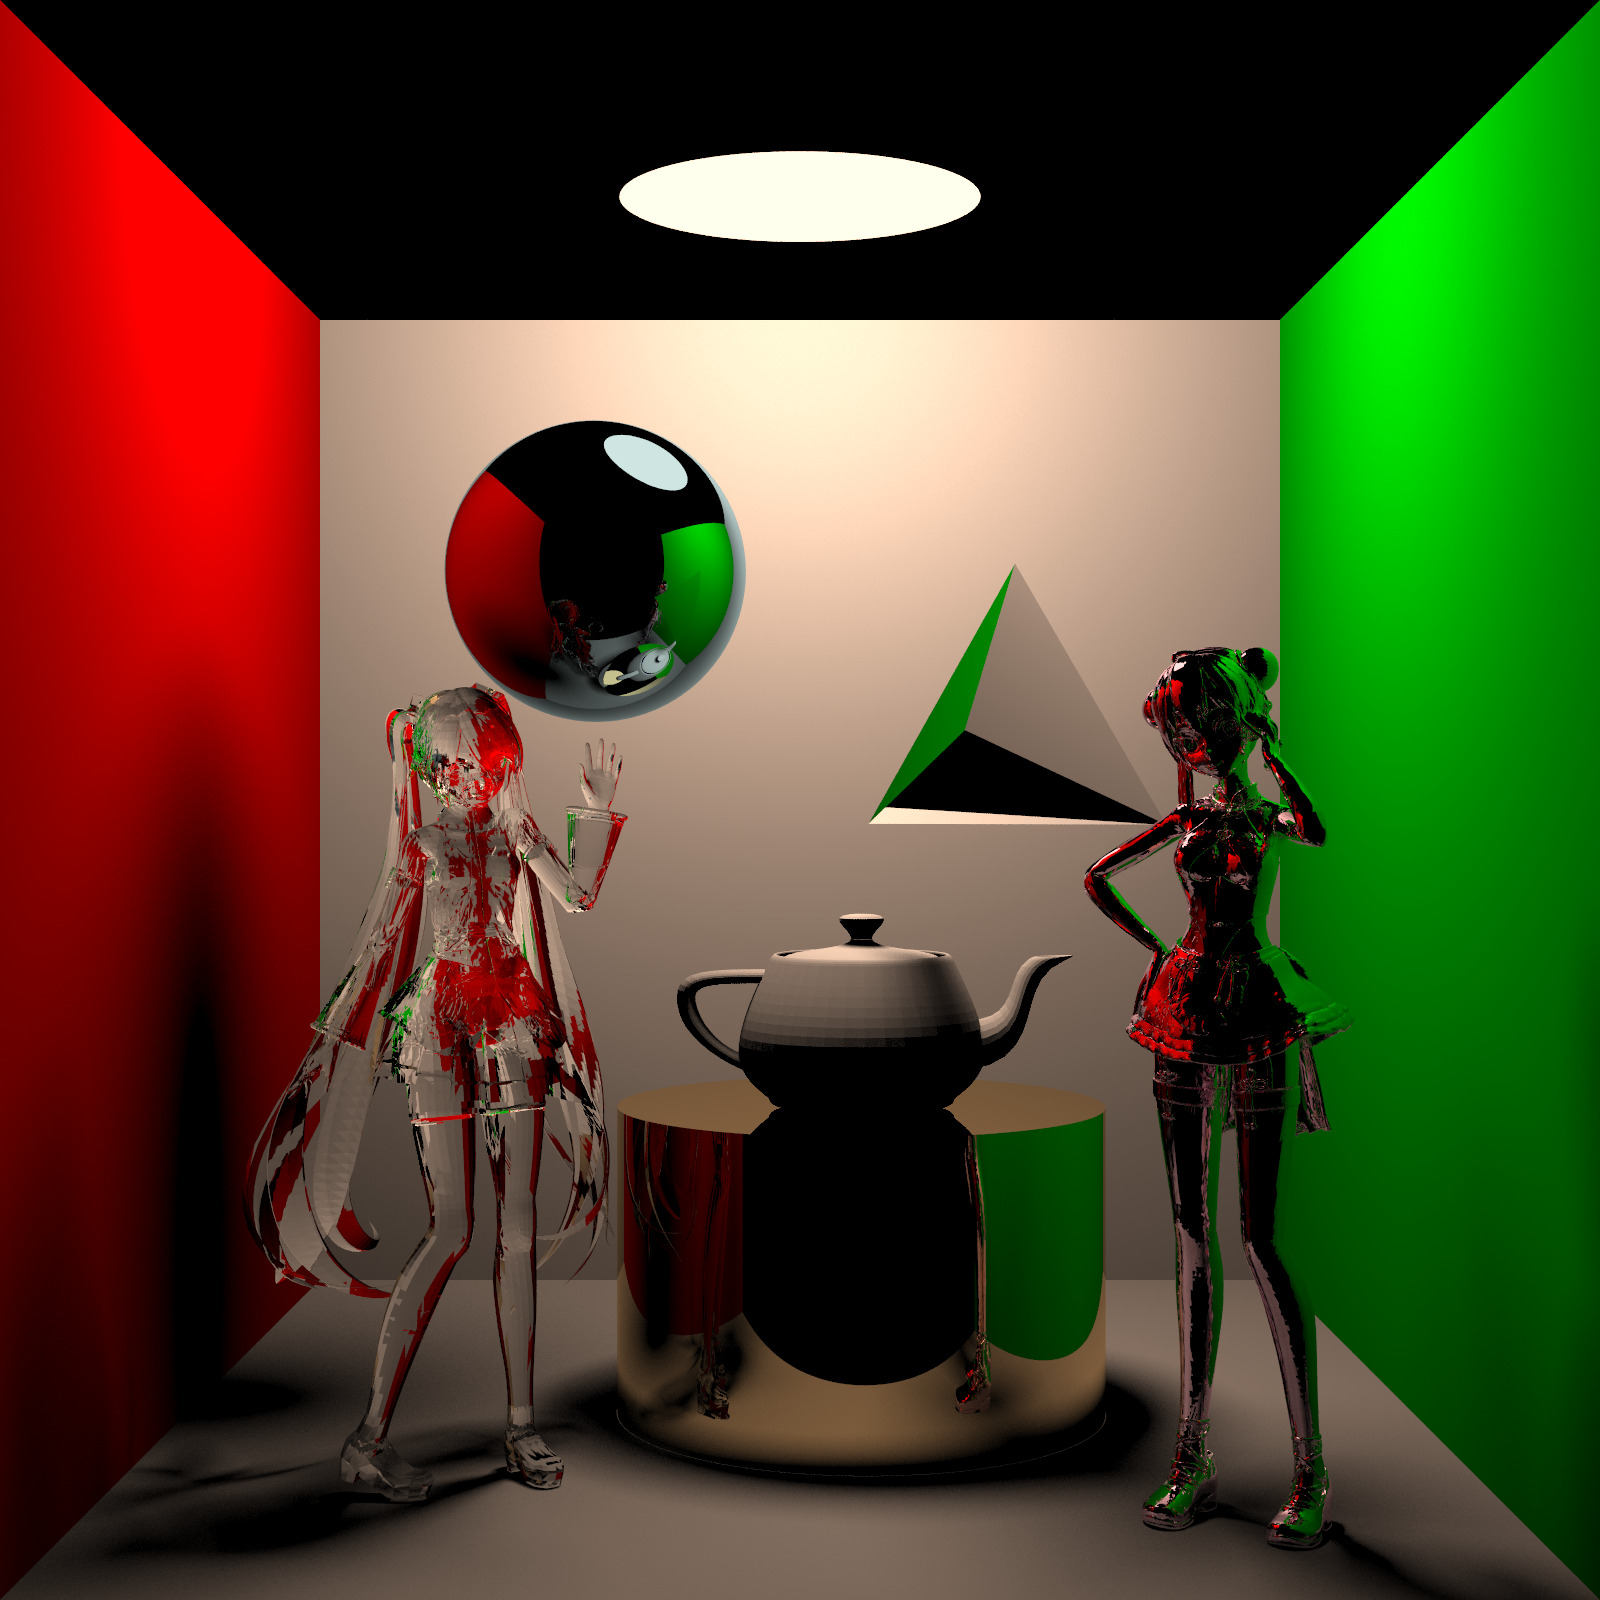
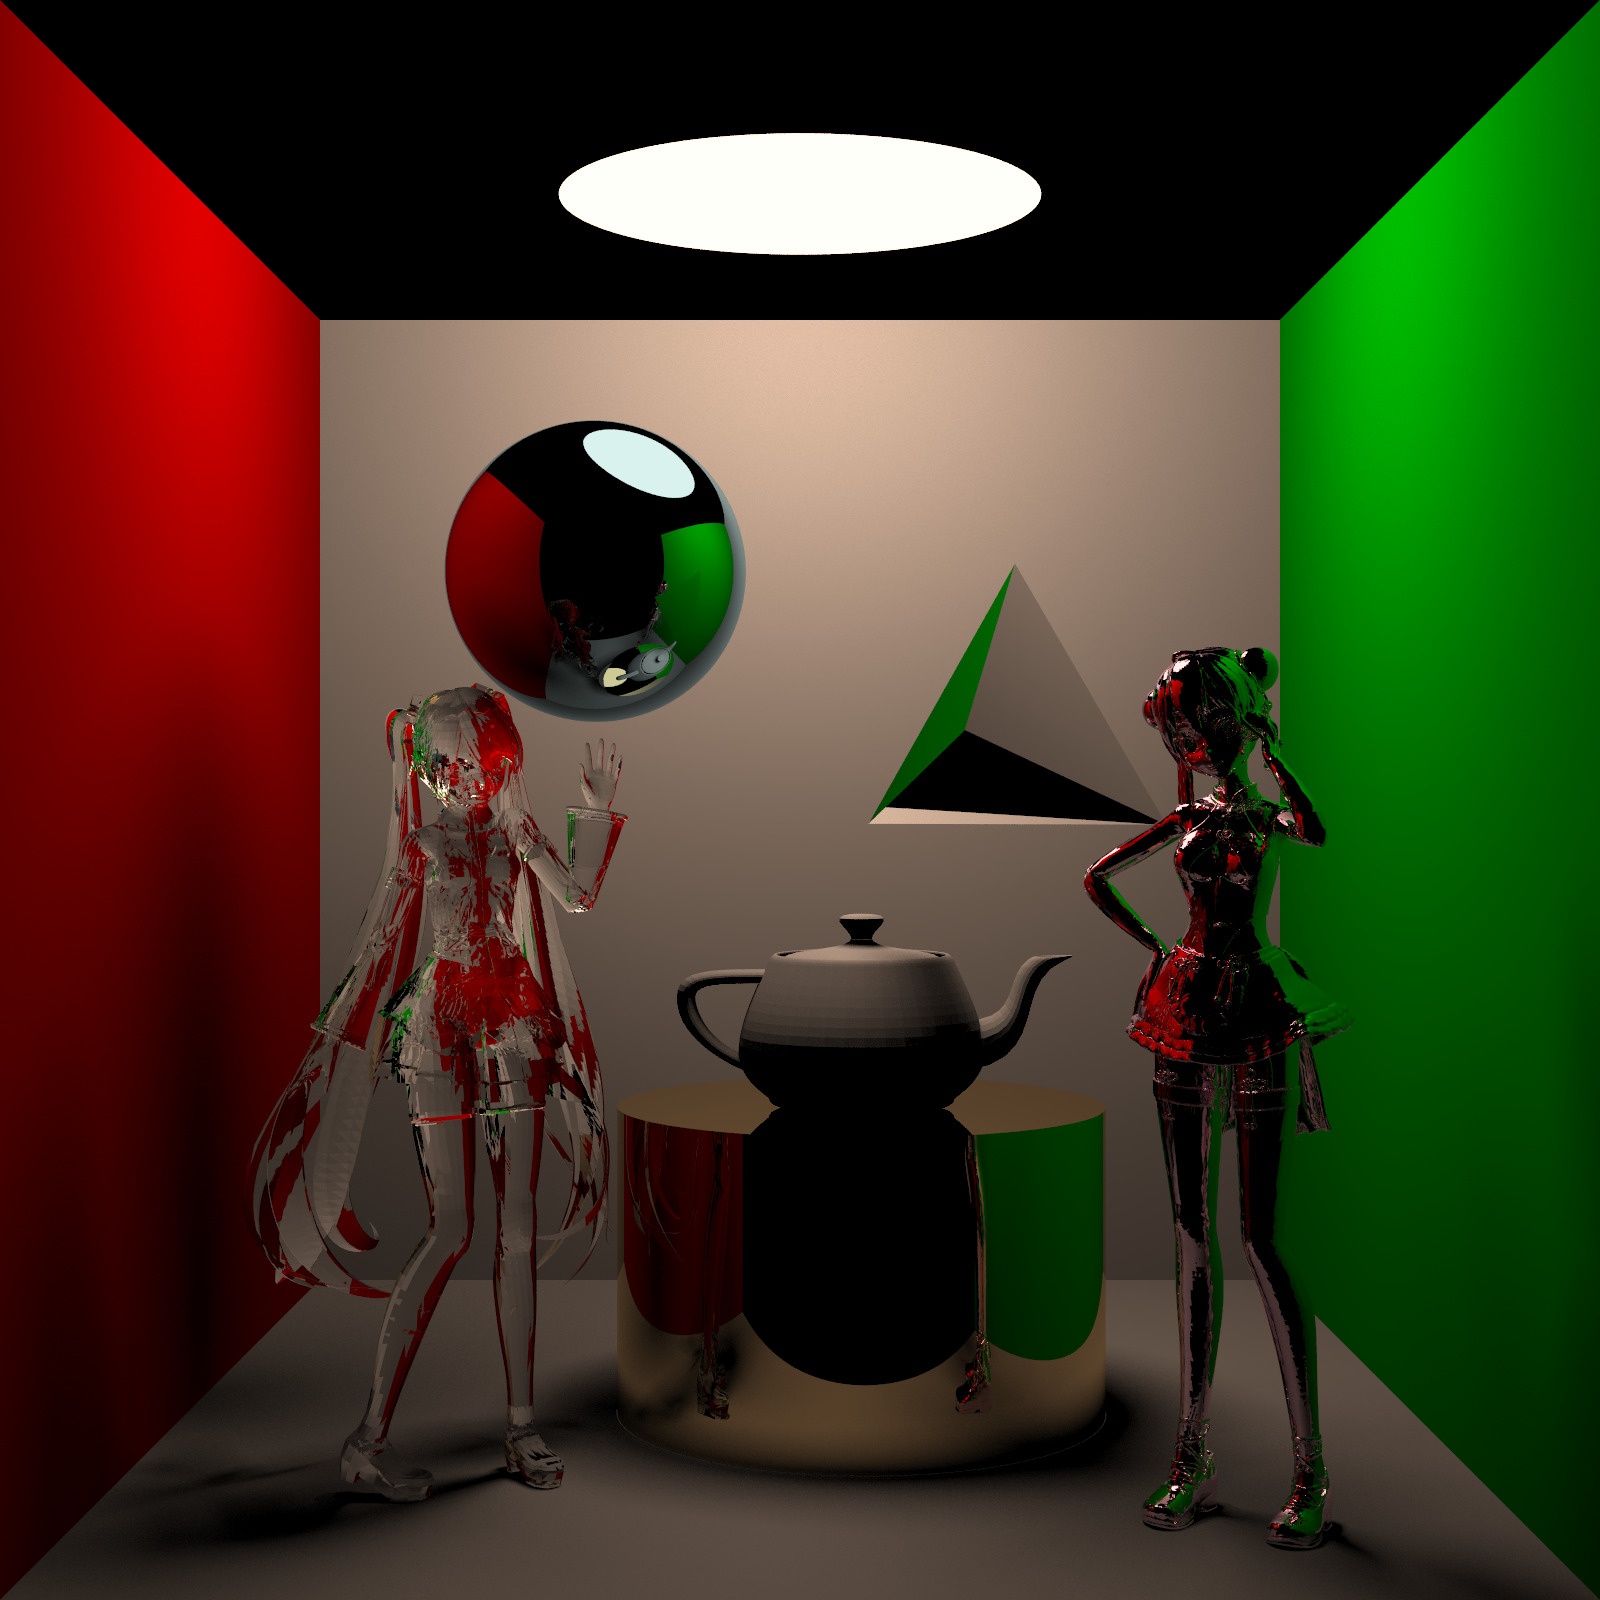
light source bug fixed

diff --git a/src/scene.rs b/src/scene.rs
@@ -151,10 +151,20 @@ impl Scene {
                         //     origin: Pt3::new(0.0, 1.0, -2.0),
                         //     spectrum: RGBSpectrum::new(0.9, 0.64, 0.48) * 1.8,
                         // }),
+                        // Box::new(DiskLight {
+                        //     origin: Pt3::new(0.0, 1.0, -2.0),
+                        //     radius: 0.4,
+                        //     spectrum: RGBSpectrum::new(0.9, 0.64, 0.48) * 2.0,
+                        // }),
                         Box::new(DiskLight {
-                            origin: Pt3::new(0.0, 1.0, -2.0),
-                            radius: 0.3,
-                            spectrum: RGBSpectrum::new(0.9, 0.64, 0.48) * 1.8,
+                            origin: Pt3::new(-0.45, 1.0, -2.25),
+                            radius: 0.4,
+                            spectrum: RGBSpectrum::new(0.9, 0.0, 0.48) * 2.0,
+                        }),
+                        Box::new(DiskLight {
+                            origin: Pt3::new(0.45, 1.0, -1.75),
+                            radius: 0.4,
+                            spectrum: RGBSpectrum::new(0.0, 0.63, 0.48) * 2.0,
                         }),
                     ],
                 },

diff --git a/src/light.rs b/src/light.rs
@@ -4,6 +4,7 @@ use crate::*;
 use cgmath::prelude::*;
 use cgmath::Vector2;
 use rand::prelude::*;
+use std::f32::consts::PI;
 
 /// the RGB spectrum, R, G, B respectively
 pub type RGBSpectrum = Vec3;
@@ -82,7 +83,7 @@ impl Light for DiskLight {
         }
         radiance /= NS2 as f32;
         if radiance != BLACK {
-            Some(radiance)
+            Some(radiance * PI * self.radius.powi(2))
         } else {
             None
         }
@@ -95,16 +96,11 @@ impl Light for DiskLight {
         }
         let hit_x = r.o.x + hit_t * r.d.x;
         let hit_z = r.o.z + hit_t * r.d.z;
-        // let normal = Vec3::new(0.0, 0.0, 1.0);
-        // let dir = r.d;
         let vh = Vector2::new(hit_x, hit_z);
         let vo = Vector2::new(self.origin.x, self.origin.z);
         let rt = vh - vo;
         if rt.dot(rt) <= self.radius.powi(2) {
-            Some(self.spectrum 
-                // * dir.normalize().dot(normal.normalize())
-            //  / dir.dot(dir)
-            )
+            Some(self.spectrum)
         } else {
             None
         }

diff --git a/src/obj_loader.rs b/src/obj_loader.rs
@@ -17,6 +17,7 @@ pub fn load_obj_file(path: String, mat: impl Material + 'static + Clone) -> obj:
     let file = File::open(path)?;
     let input = BufReader::new(file);
     let model: Obj<obj::Position, usize> = load_obj(input)?;
+    println!("model size: {}", model.indices.len());
     let mut i = 0;
     let mut list: Vec<Triangle> = Vec::new();
     while i < model.indices.len() {

diff --git a/src/geometry.rs b/src/geometry.rs
@@ -8,13 +8,8 @@ use std::rc::Rc;
 // pub struct Triangle(pub Pt3, pub Pt3, pub Pt3);
 pub struct Triangle {
     pub vertex: (Pt3, Pt3, Pt3),
-    // pub normal: Vec3,
     pub mat: Rc<dyn Material>,
 }
-
-// pub fn normal(a: Pt3, b: Pt3, c: Pt3) {
-
-// }
 
 impl Triangle {
     /// return the normal vector of the triangle

diff --git a/README.md b/README.md
@@ -1,0 +1,4 @@
+# Ray Tracer in Rust
+
+A ray tracer in Rust, course project for **Rendering Techniques**, NJU, 2022spring.
+
